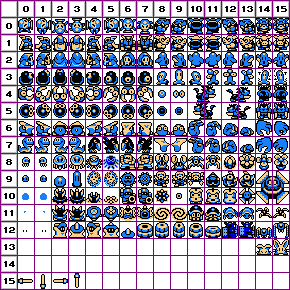
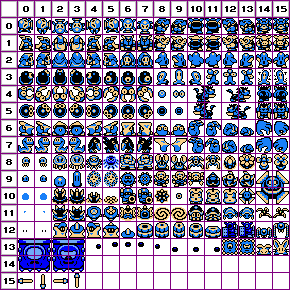
Added basics of Thwomp monster

diff --git a/ZeldaOracle/Game/Game/Entities/Monsters/MonsterThwomp.cs b/ZeldaOracle/Game/Game/Entities/Monsters/MonsterThwomp.cs
@@ -1,0 +1,113 @@
+using System;
+using ZeldaOracle.Common.Geometry;
+using ZeldaOracle.Common.Audio;
+
+namespace ZeldaOracle.Game.Entities.Monsters {
+
+	public enum CrushState {
+		Idle,	// Waiting for player to come near
+		Crush,	// Accelearting down to the ground
+		Hit,	// Hit the ground, screen is shaking
+		Raise,	// Moving up back to idle positio.
+	}
+
+	public class MonsterThwomp: Monster {
+
+		private CrushState crushState;
+		private Vector2F hoverPosition;
+		float crushSpeed;
+		int hitWaitTimer;
+		int eyeAngle;
+
+		public MonsterThwomp() {
+			// General.
+			ContactDamage	= 4;
+			isDamageable	= false;
+			isBurnable		= false;
+			isStunnable		= false;
+			isGaleable		= false;
+			IsKnockbackable	= false;
+			
+			// Interactions (Tools)
+			SetReaction(InteractionType.Sword,			SenderReactions.Bump, Reactions.ClingEffect);
+			SetReaction(InteractionType.SwordSpin,		SenderReactions.Bump, Reactions.ClingEffect);
+			SetReaction(InteractionType.BiggoronSword,	Reactions.ClingEffect);
+			SetReaction(InteractionType.Shovel,			Reactions.ClingEffect);
+			// Interactions (Projectiles)
+			SetReaction(InteractionType.Arrow,			SenderReactions.Intercept);
+			SetReaction(InteractionType.SwordBeam,		SenderReactions.Intercept);
+			SetReaction(InteractionType.Boomerang,		SenderReactions.Intercept, Reactions.ClingEffect);
+			SetReaction(InteractionType.SwitchHook,		SenderReactions.Intercept, Reactions.ClingEffect);
+						
+			SetReaction(InteractionType.Sword,			Reactions.ParryWithClingEffect);
+			SetReaction(InteractionType.SwordSpin,		Reactions.ParryWithClingEffect);
+			SetReaction(InteractionType.BiggoronSword,	Reactions.ClingEffect);
+			SetReaction(InteractionType.Shovel,			Reactions.ClingEffect);
+		}
+
+		public override void Initialize() {
+			base.Initialize();
+			Graphics.PlayAnimation(GameData.ANIM_MONSTER_THWOMP);
+			crushState = CrushState.Idle;
+			hoverPosition = position;
+			eyeAngle = Angles.Down;
+			Graphics.PlayAnimation(GameData.ANIM_MONSTER_THWOMP);
+		}
+
+		public override void UpdateAI() {
+			
+			if (crushState == CrushState.Raise) {
+				// Move up until we reach our wait position
+				position.Y -= GameSettings.MONSTER_THWOMP_RAISE_SPEED;
+				if (position.Y <= hoverPosition.Y) {
+					crushState = CrushState.Idle;
+					position = hoverPosition;
+					Graphics.PlayAnimation(GameData.ANIM_MONSTER_THWOMP);
+				}
+			}
+			else  if (crushState == CrushState.Crush) {
+				// Move down
+				position.Y += crushSpeed;
+
+				// Accelerate crush speed
+				if (crushSpeed < GameSettings.MONSTER_THWOMP_CRUSH_MAX_SPEED) {
+					crushSpeed = Math.Min(crushSpeed +
+						GameSettings.MONSTER_THWOMP_CRUSH_ACCELERATION,
+						GameSettings.MONSTER_THWOMP_CRUSH_MAX_SPEED);
+				}
+
+				// TODO: Stop crushing upon hitting a solid tile
+				if (position.Y >= hoverPosition.Y + GameSettings.TILE_SIZE * 4) {
+					crushState = CrushState.Hit;
+					hitWaitTimer = 0;
+					AudioSystem.PlaySound(GameData.SOUND_BARRIER);
+				}
+			}
+			else  if (crushState == CrushState.Hit) {
+				// Wait a bit before we raise back up
+				hitWaitTimer++;
+				if (hitWaitTimer > GameSettings.MONSTER_THWOMP_HIT_WAIT_DURATION) {
+					crushState = CrushState.Raise;
+				}
+			}
+			else {
+				// Update eye angle.
+				int angleToPlayer = Angles.NearestFromVector(
+					RoomControl.Player.Center - Center);
+				eyeAngle = angleToPlayer;
+				Graphics.SubStripIndex = eyeAngle;
+				// TODO: after raising, eye will not change back until not looking down.
+				// TODO: slight delay after raising
+
+				// Check for crushing
+				if (Entity.AreEntitiesAligned(this, RoomControl.Player,
+					Directions.Down, GameSettings.MONSTER_THWOMP_CRUSH_MIN_ALIGNMENT))
+				{
+					crushState = CrushState.Crush;
+					crushSpeed = GameSettings.MONSTER_THWOMP_CRUSH_INITIAL_SPEED;
+					Graphics.PlayAnimation(GameData.ANIM_MONSTER_THWOMP_CRUSH);
+				}
+			}
+		}
+	}
+}

diff --git a/ZeldaOracle/Game/Game/GameSettings.cs b/ZeldaOracle/Game/Game/GameSettings.cs
@@ -108,9 +108,16 @@ namespace ZeldaOracle.Game {
 		public const float				PLAYER_DEFAULT_PUSH_SPEED			= 0.5f;
 
 		// Monsters
-		public const int				MONSTER_STUN_DURATION		= 400;	// How long a monster gets stunned for (by boomerang/pegasus seeds).
-		public const int				MONSTER_STUN_SHAKE_DURATION	= 60;	// How long the monster shakes at the end of being stunned.
-		public const int				MONSTER_BOOMERANG_DAMAGE	= 1;
+		public const int				MONSTER_STUN_DURATION					= 400;	// How long a monster gets stunned for (by boomerang/pegasus seeds).
+		public const int				MONSTER_STUN_SHAKE_DURATION				= 60;	// How long the monster shakes at the end of being stunned.
+		public const int				MONSTER_BOOMERANG_DAMAGE				= 1;
+		public const int				MONSTER_THWOMP_CRUSH_MIN_ALIGNMENT		= 5; // TODO
+		public const float				MONSTER_THWOMP_CRUSH_ACCELERATION		= 0.2f;
+		public const float				MONSTER_THWOMP_CRUSH_INITIAL_SPEED		= 0.5f;
+		public const float				MONSTER_THWOMP_CRUSH_MAX_SPEED			= 2.5f;
+		public const float				MONSTER_THWOMP_RAISE_SPEED				= 0.5f;
+		public const int				MONSTER_THWOMP_HIT_SHAKE_DURATION		= 46;
+		public const int				MONSTER_THWOMP_HIT_WAIT_DURATION		= 46 + 16;
 
 		// Tiles
 		public const int				TILE_BUTTON_TILE_RAISE_AMOUNT			= 2;	// Pixels to raise certain tiles when pushed over a button.

diff --git a/ZeldaOracle/Game/Game/GameData.Animations.cs b/ZeldaOracle/Game/Game/GameData.Animations.cs
@@ -120,8 +120,8 @@ namespace ZeldaOracle.Game {
 		public static Animation ANIM_MONSTER_IRON_MASK_NAKED;
 		public static Animation ANIM_MONSTER_IRON_MASK_MASK;
 		public static Animation ANIM_MONSTER_BUZZ_BLOB;
-		public static Animation ANIM_MONSTER_CUKEMAN;
 		public static Animation ANIM_MONSTER_BUZZ_BLOB_ELECTROCUTE;
+		public static Animation ANIM_MONSTER_CUKEMAN;
 		public static Animation ANIM_MONSTER_LYNEL;
 		public static Animation ANIM_MONSTER_ROPE;
 		public static Animation ANIM_MONSTER_CROW;
@@ -176,6 +176,11 @@ namespace ZeldaOracle.Game {
 		public static Animation ANIM_MONSTER_POLS_VOICE;
 		public static Animation ANIM_MONSTER_POLS_VOICE_JUMP;
 		public static Animation ANIM_MONSTER_GHINI;
+		public static Animation ANIM_MONSTER_THWOMP;
+		public static Animation ANIM_MONSTER_THWOMP_CRUSH;
+		public static Animation ANIM_MONSTER_THWOMP_EYE;
+		public static Animation ANIM_MONSTER_THWIMP;
+		public static Animation ANIM_MONSTER_THWIMP_CRUSH;
 
 		// Monster items.
 		public static Animation ANIM_MONSTER_SWORD_HOLD;

diff --git a/ZeldaOracle/Game/Common/Graphics/Animation.cs b/ZeldaOracle/Game/Common/Graphics/Animation.cs
@@ -71,7 +71,7 @@ namespace ZeldaOracle.Common.Graphics {
 
 		public void AddFrame(AnimationFrame frame) {
 			int index = 0;
-			while (index < frames.Count && frame.StartTime > frames[index].StartTime)
+			while (index < frames.Count && frame.StartTime >= frames[index].StartTime)
 				++index;
 			frames.Insert(index, frame);
 			duration = Math.Max(duration, frame.StartTime + frame.Duration);

diff --git a/ZeldaOracle/Game/Game/Entities/Monsters/MonsterDarknut.cs b/ZeldaOracle/Game/Game/Entities/Monsters/MonsterDarknut.cs
@@ -29,6 +29,8 @@ namespace ZeldaOracle.Game.Entities.Monsters {
 			shootSpeed			= 2.0f;
 			projectileShootOdds	= 5; // 1 in 5 chance to shoot between movements.
 			shootPauseDuration	= 5;
+
+			// TODO: Boomerang = cling & intercept
 		}
 
 		public override void Initialize() {
